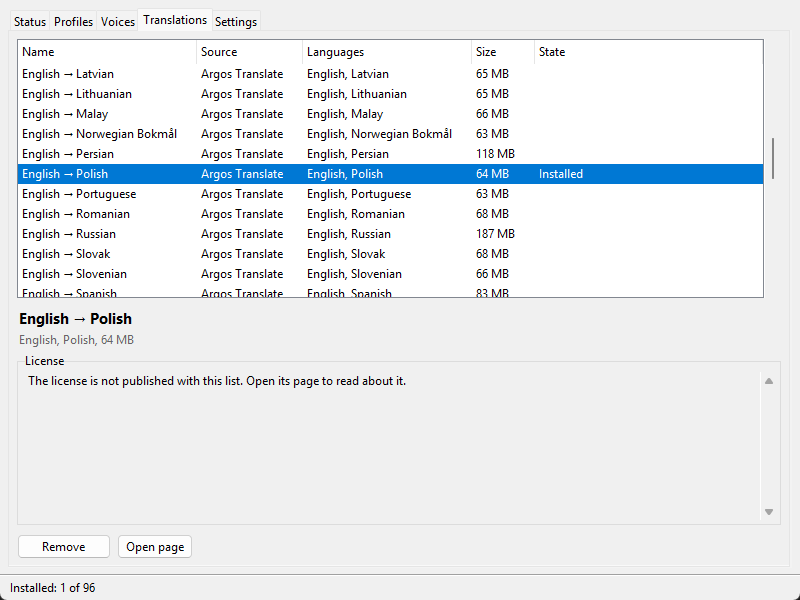
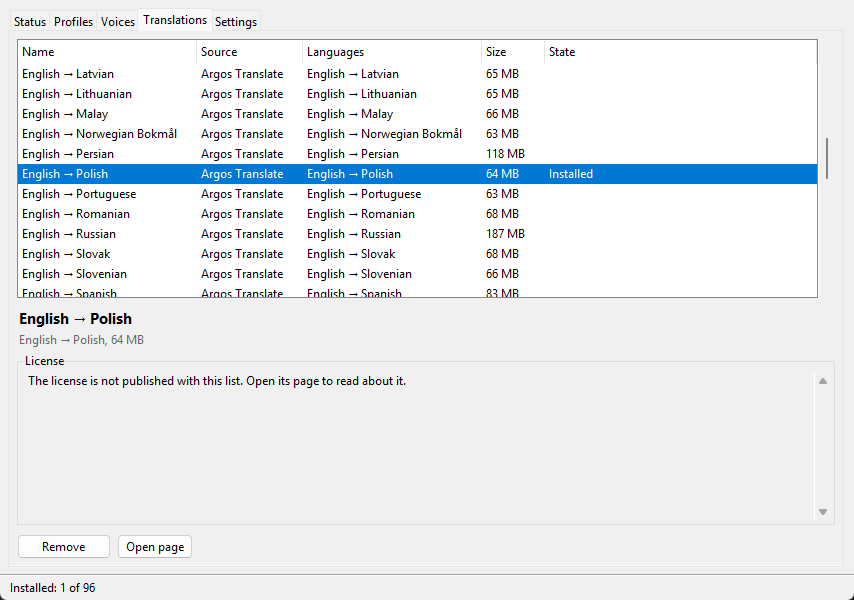
docs: retake the screenshots for tested languages and the wider window
The four screenshots are taken again from the app as it is now, in
its 854×600 window: the Profiles tab with its Tested languages column
and San Andreas selected, whose details show its glossary and speech
rules, and the Voices and Translations tabs with languages named as
"Polish (Polski)" and "English → Polish".

diff --git a/README.md b/README.md
@@ -51,7 +51,7 @@ Rather not install anything? Download `ReflektorTTS-<version>-windows-x64.zip` i
 <table>
   <tr>
     <td><img src="docs/images/status.png" alt="The Status tab: what ReflektorTTS is doing, its voice, languages and the app's sound, with links to the project and its support pages"></td>
-    <td><img src="docs/images/profiles.png" alt="The Profiles tab, listing the bundled profiles with their rating medals and states, and the selected profile's details"></td>
+    <td><img src="docs/images/profiles.png" alt="The Profiles tab, listing the bundled profiles with their rating medals, tested languages and states, with Grand Theft Auto: San Andreas selected and its details: its tested languages, glossary and speech rules"></td>
   </tr>
   <tr>
     <td align="center">What ReflektorTTS is doing</td>
